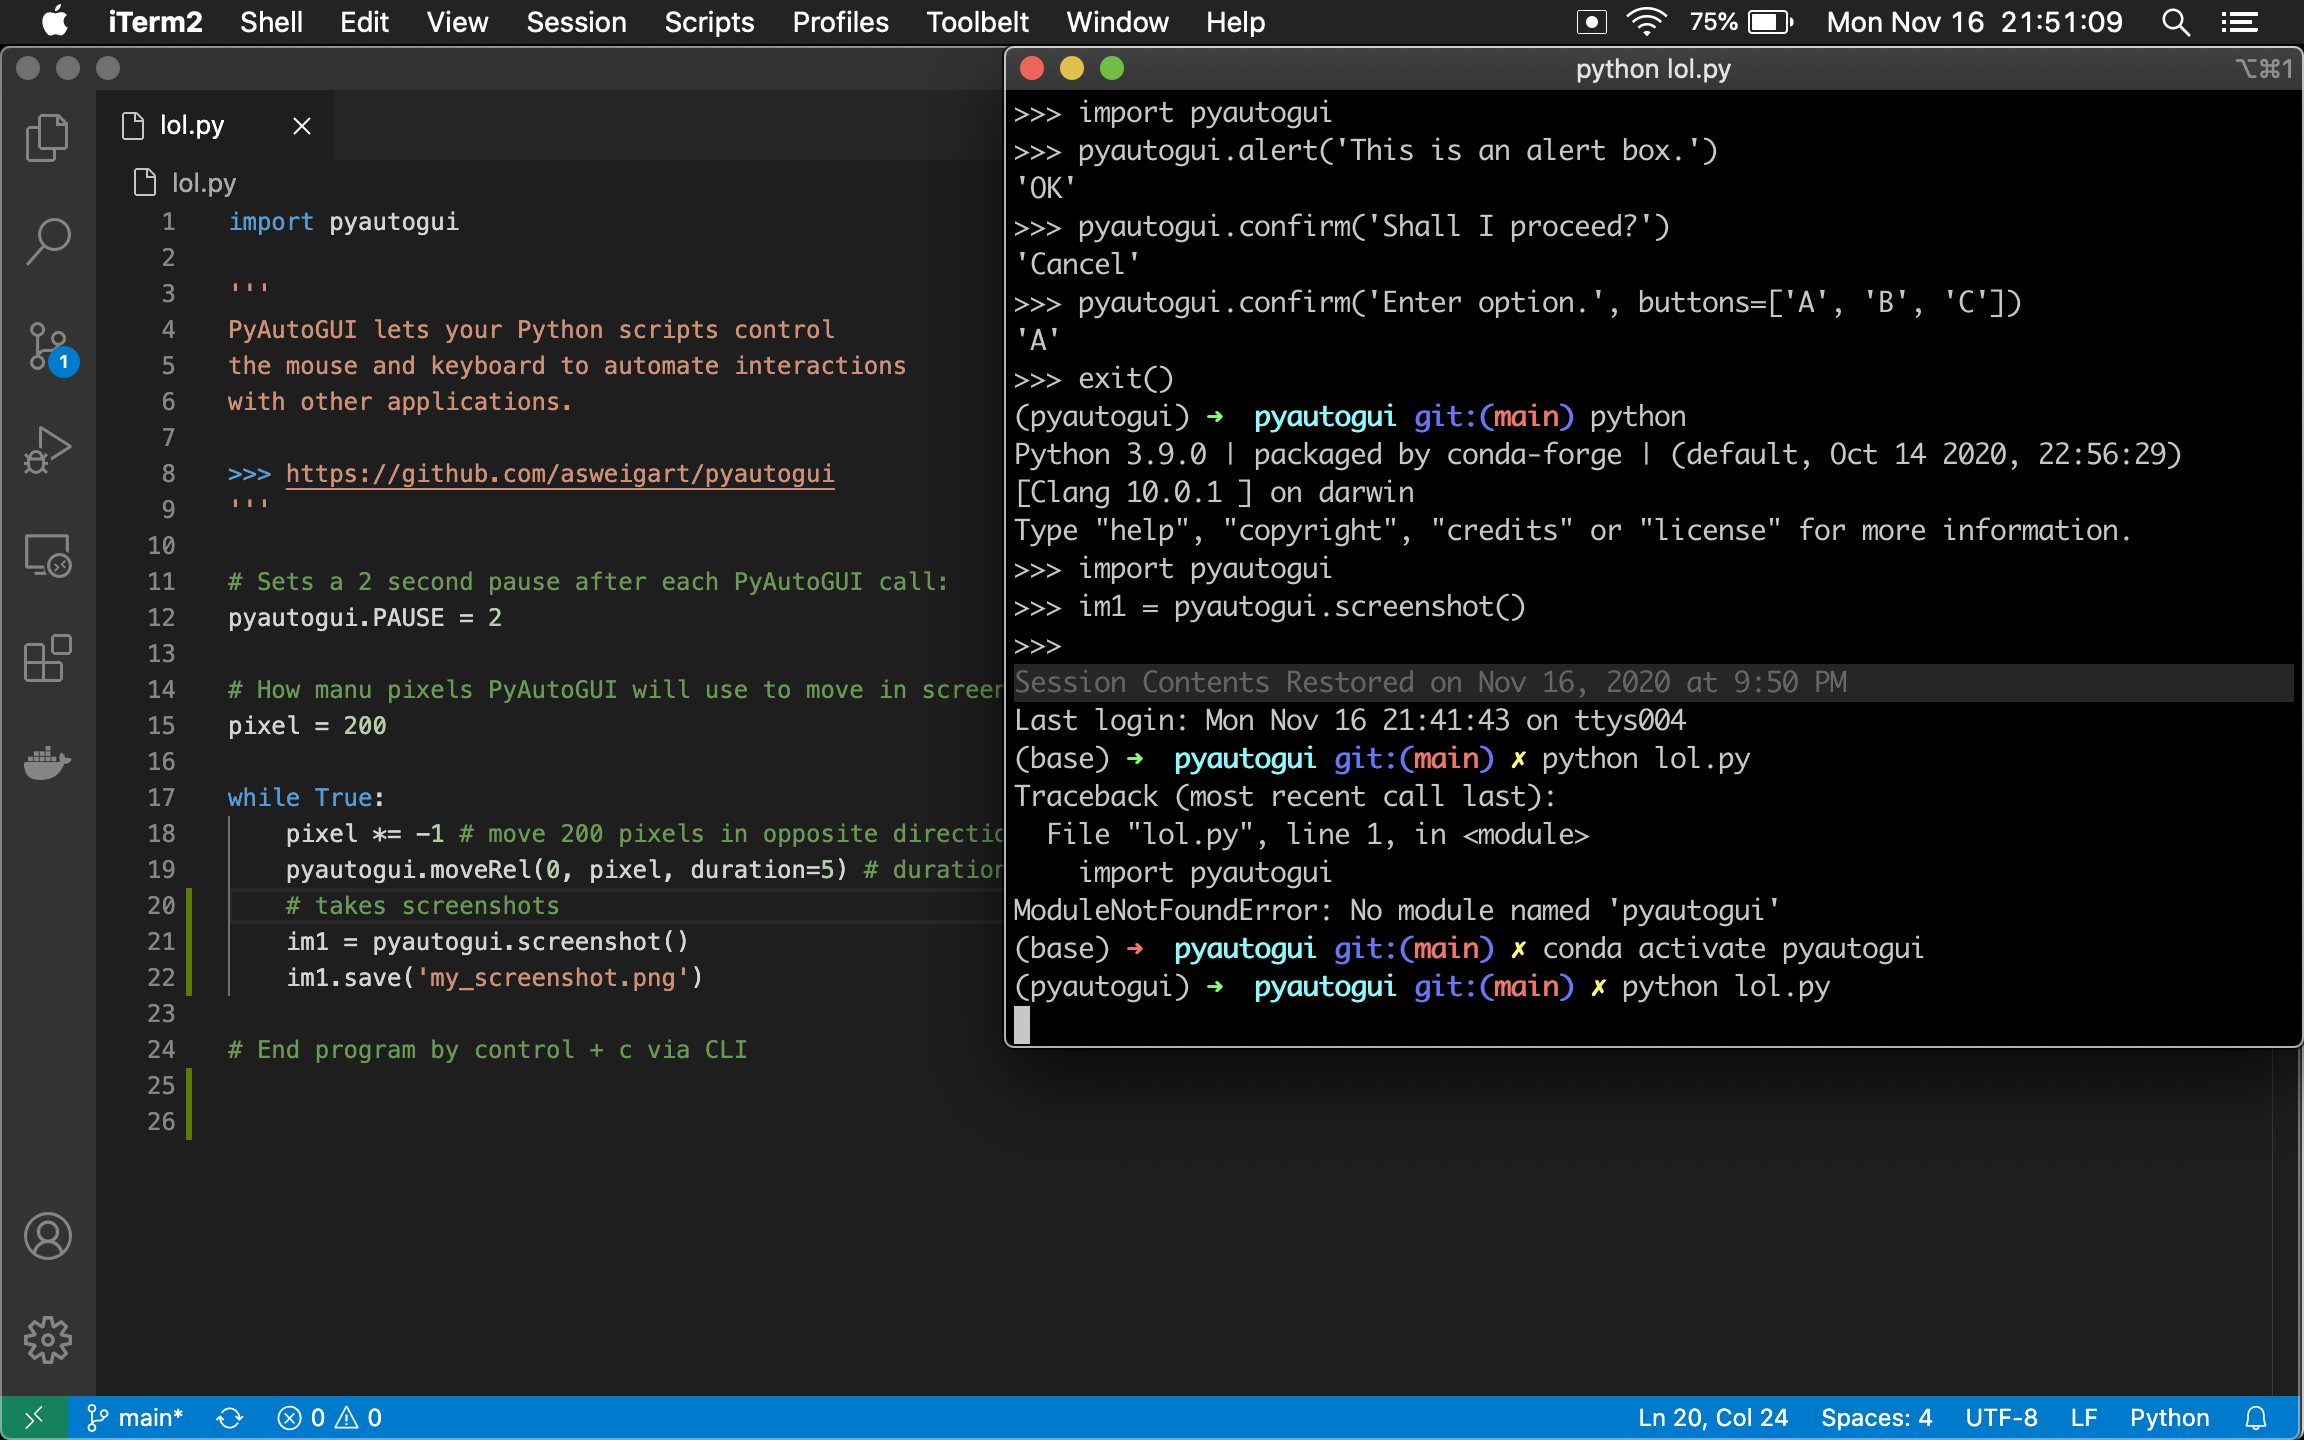
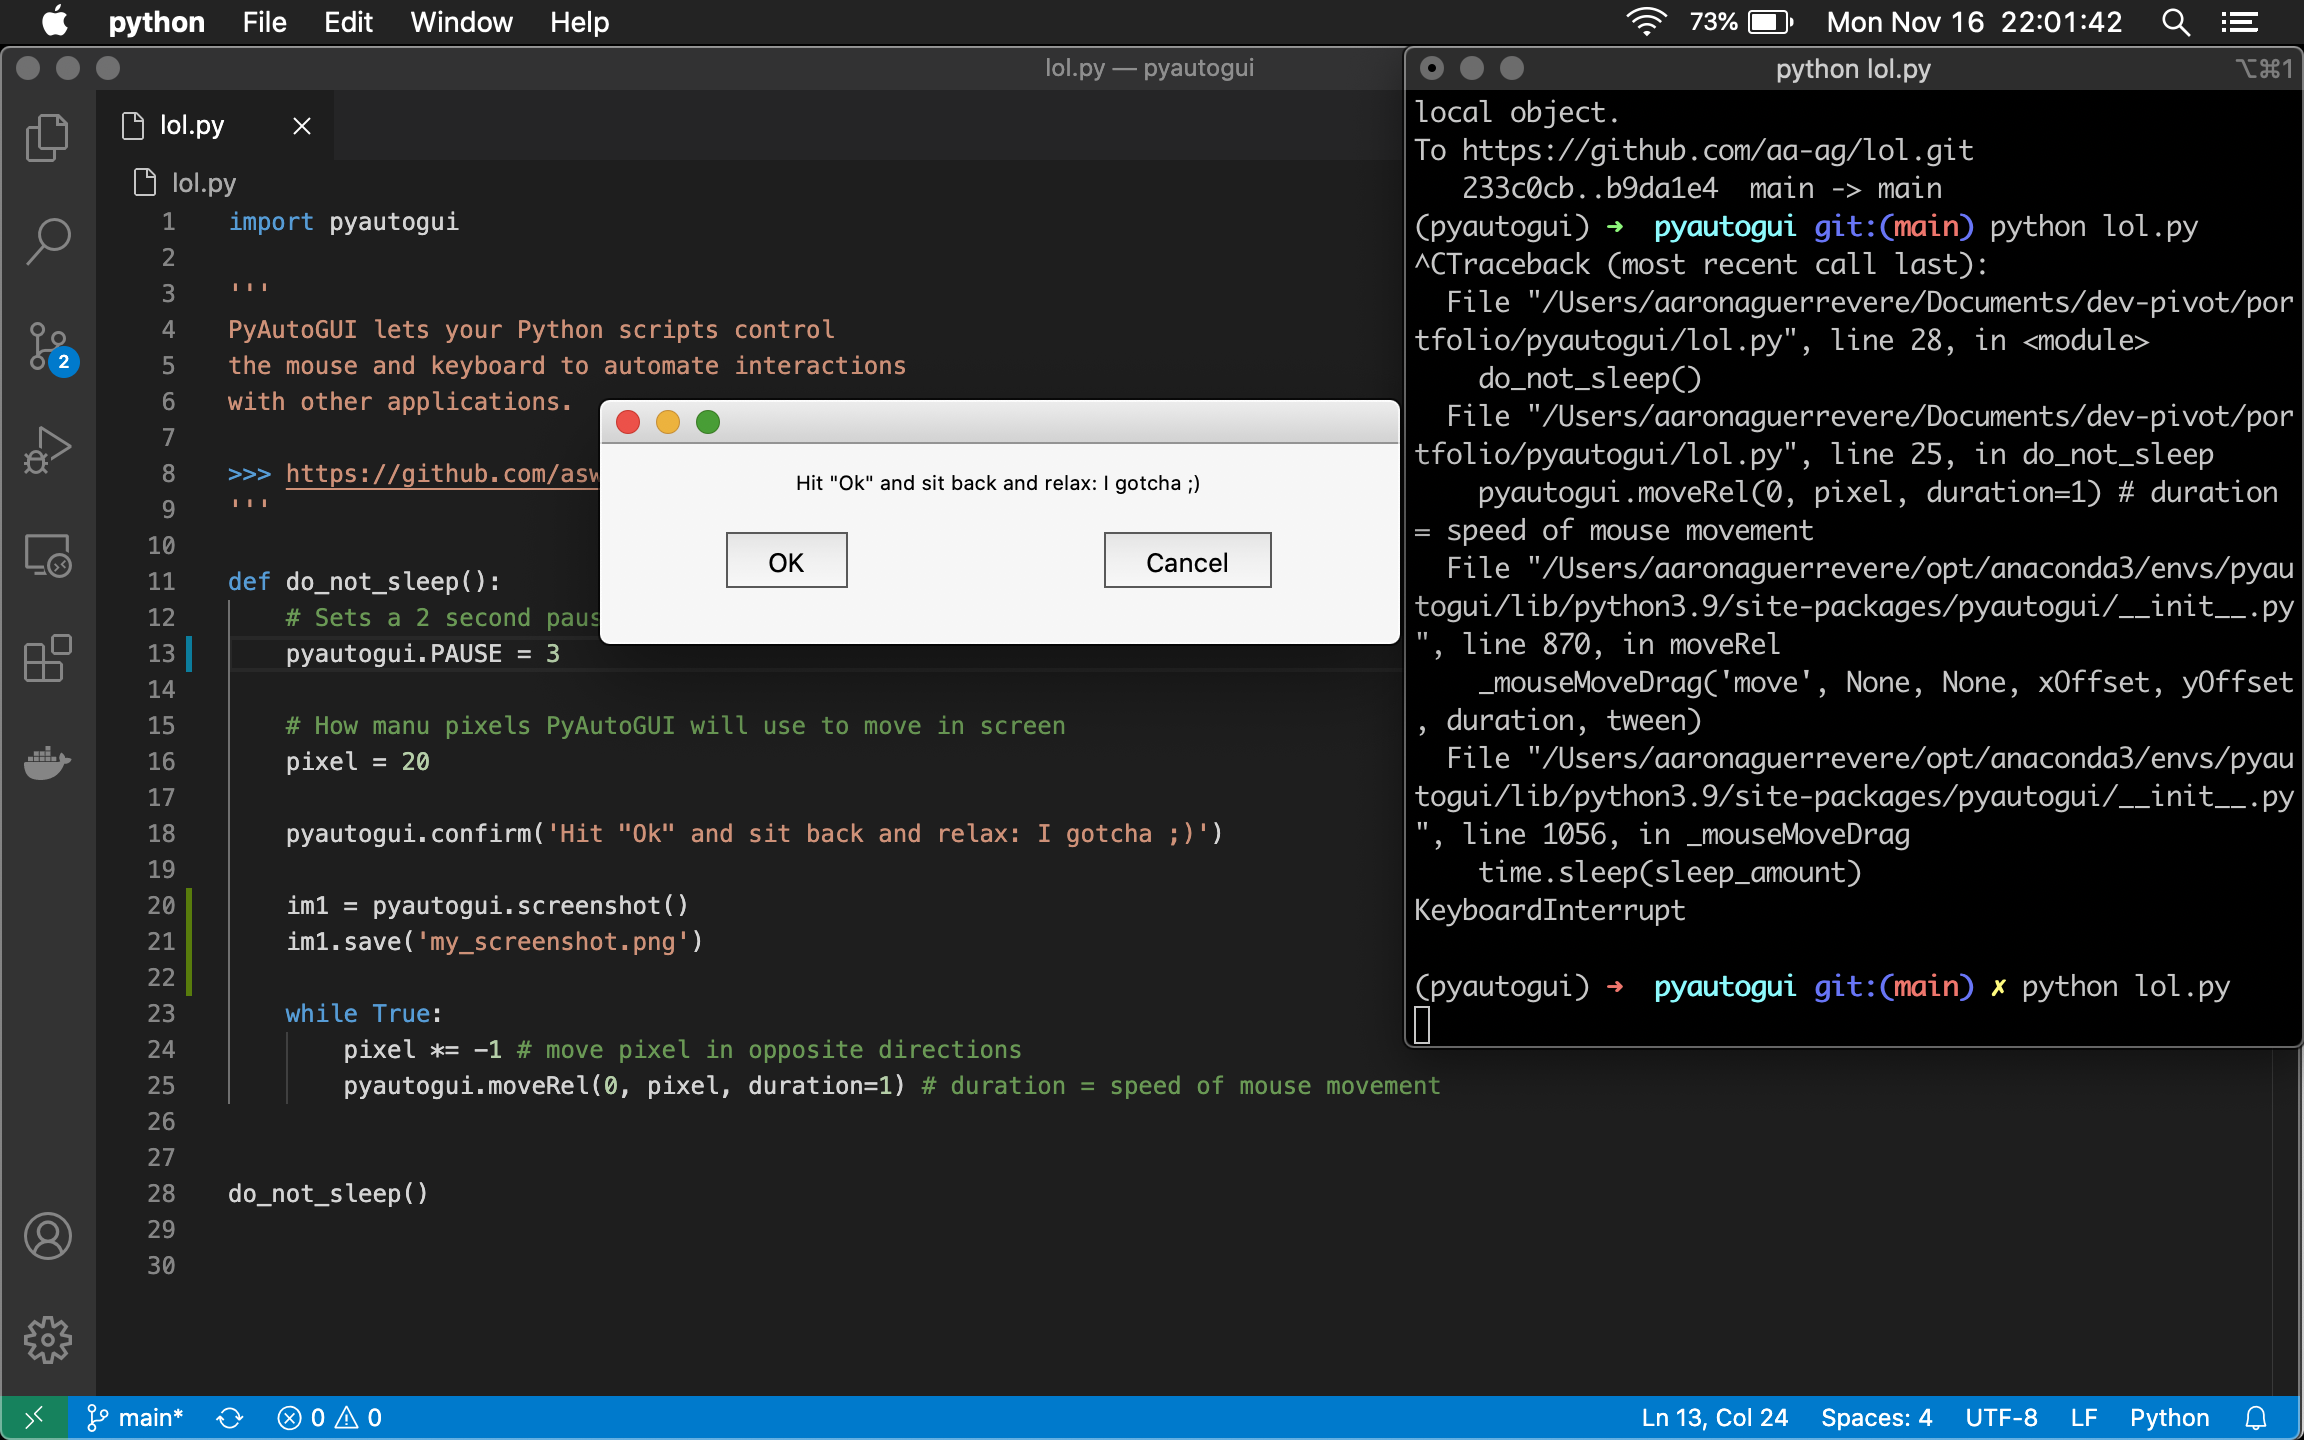
edited comments, took out screenshot function

diff --git a/lol.py b/lol.py
@@ -9,10 +9,10 @@ with other applications.
 '''
 
 def do_not_sleep():
-    # Sets a 2 second pause after each PyAutoGUI call:
-    pyautogui.PAUSE = 1
+    # Sets a 3 second pause after each PyAutoGUI call:
+    pyautogui.PAUSE = 3
 
-    # How manu pixels PyAutoGUI will use to move in screen
+    # How many pixels PyAutoGUI will use to move in screen
     pixel = 20
 
     pyautogui.confirm('Hit "Ok" and sit back and relax: I gotcha ;)')
